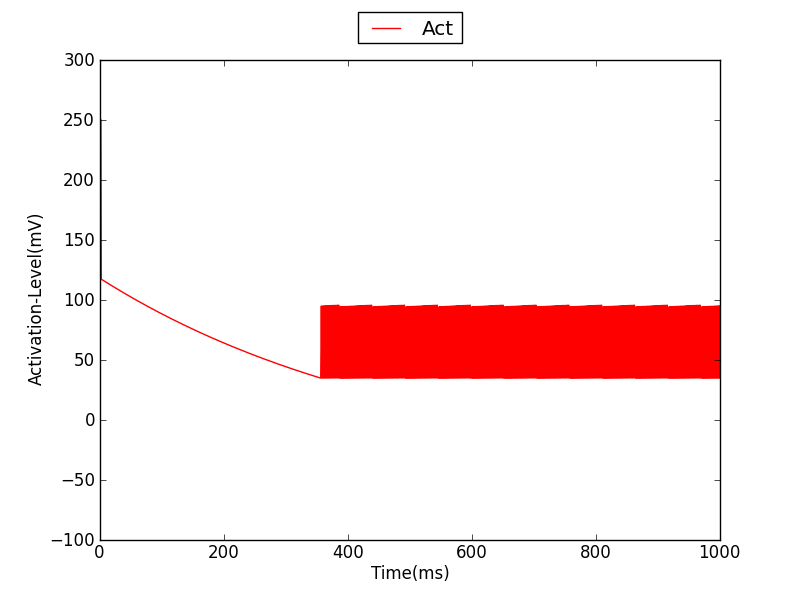
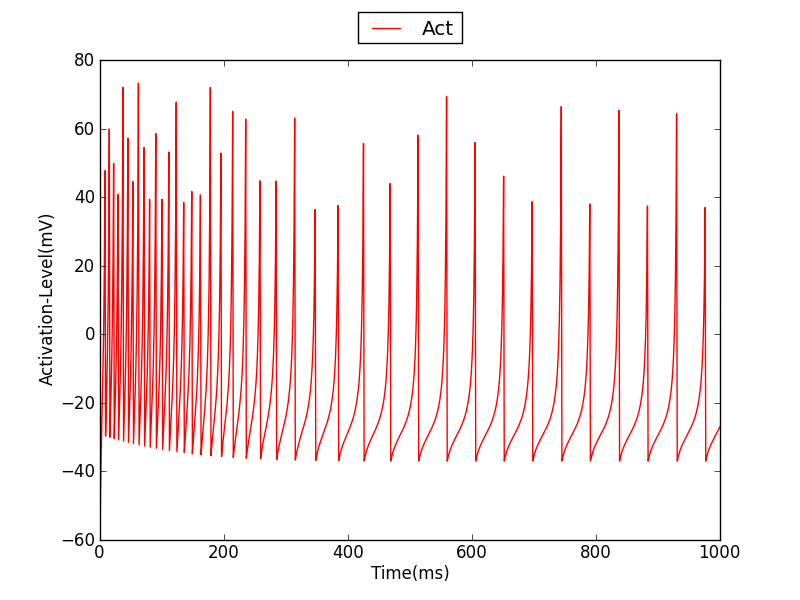
Documentation update

diff --git a/project2/code/izhikevich.py b/project2/code/izhikevich.py
@@ -20,19 +20,12 @@ param_range = {
     'k': [0.01, 1.0]
 }
 
-def get_target_data():
+def get_target_data(file_num):
 
-    def read_file(path):
-        with open(path, 'r') as f:
-            return [float(i) for i in f.readline().strip().split(' ')]
+    filepath = 'data/izzy-train%s.dat' % file_num
 
-
-    return [
-        read_file('data/izzy-train1.dat'), 
-        read_file('data/izzy-train2.dat'), 
-        read_file('data/izzy-train3.dat'), 
-        read_file('data/izzy-train4.dat')
-        ]
+    with open(filepath, 'r') as f:
+        return [float(i) for i in f.readline().strip().split(' ')]
 
 
 class SpikingNeuron(Indevidual):
@@ -260,8 +253,6 @@ class SDM(object):
 
 # Fitness function
 def fitness_test(metric_fn, target, penalty = True, p = 2.0):
-
-
     
     def closure_fn (phenotype_value):
         return metric_fn(phenotype_value, target, p, penalty)
@@ -335,8 +326,8 @@ class SpikingNeuronPlotter(Plotter):
 std_values = {
     'output_file': 'spiking',
     'do_plot': True,
-    'pop_size':  200,
-    'mutation_probability': 0.3,
+    'pop_size':  100,
+    'mutation_probability': 0.25,
     'birth_probability': 1.0,
     'gene_size': 7, # The bit size for each gene (parameter)
     'generations': 200,
@@ -357,10 +348,8 @@ std_values = {
 if __name__ == "__main__":
 
     import argparse
-    from IPython.config import loader
 
-
-    parser = loader.ArgumentParser(version='0.1', description=__doc__, formatter_class=argparse.RawDescriptionHelpFormatter)
+    parser = argparse.ArgumentParser(version='0.1', description=__doc__, formatter_class=argparse.RawDescriptionHelpFormatter)
 
     parser.add_argument(
         '-o', 
@@ -486,7 +475,7 @@ if __name__ == "__main__":
 
 
     target_spikes = get_target_data()
-    target = target_spikes[1];
+    target = target_spikes[0];
 
     create_objects = create_data(args.gene_size, args.metric_fn, target)
     population = Population(args.pop_size, create_objects)

diff --git a/project2/code/lib/EA.py b/project2/code/lib/EA.py
@@ -95,17 +95,17 @@ class EA:
 
             # print "PRE ADULTS"
             print "\n\n\n------- GENERATION %s -------- \n Length: %s \n\n\n" % (generation, len(self.population.children))
-            for item in self.population.children[:]:
-                fitness = item.fitness_value;
+            # for item in self.population.children[:]:
+            #     fitness = item.fitness_value;
 
-                if fitness is None:
-                    fitness = 0
+            #     if fitness is None:
+            #         fitness = 0
 
-                # Collect all denary values from genotype, categorized by 5 bits interval
-                params = [int(item.value[i:i+item.gene_size], 2) for i in range(0, len(item.value), item.gene_size)]
-                # Need to encode values to fit to given ranges/intervals
-                a, b, c, d, k = item.fit_range (params)
-                print "Value %s, %s, %s, %s, %s, fitness: %s" % (a, b, c, d, k, fitness)
+            #     # Collect all denary values from genotype, categorized by 5 bits interval
+            #     params = [int(item.value[i:i+item.gene_size], 2) for i in range(0, len(item.value), item.gene_size)]
+            #     # Need to encode values to fit to given ranges/intervals
+            #     a, b, c, d, k = item.fit_range (params)
+            #     print "Value %s, %s, %s, %s, %s, fitness: %s" % (a, b, c, d, k, fitness)
 
             # Adult selection
             self.adult_select()
